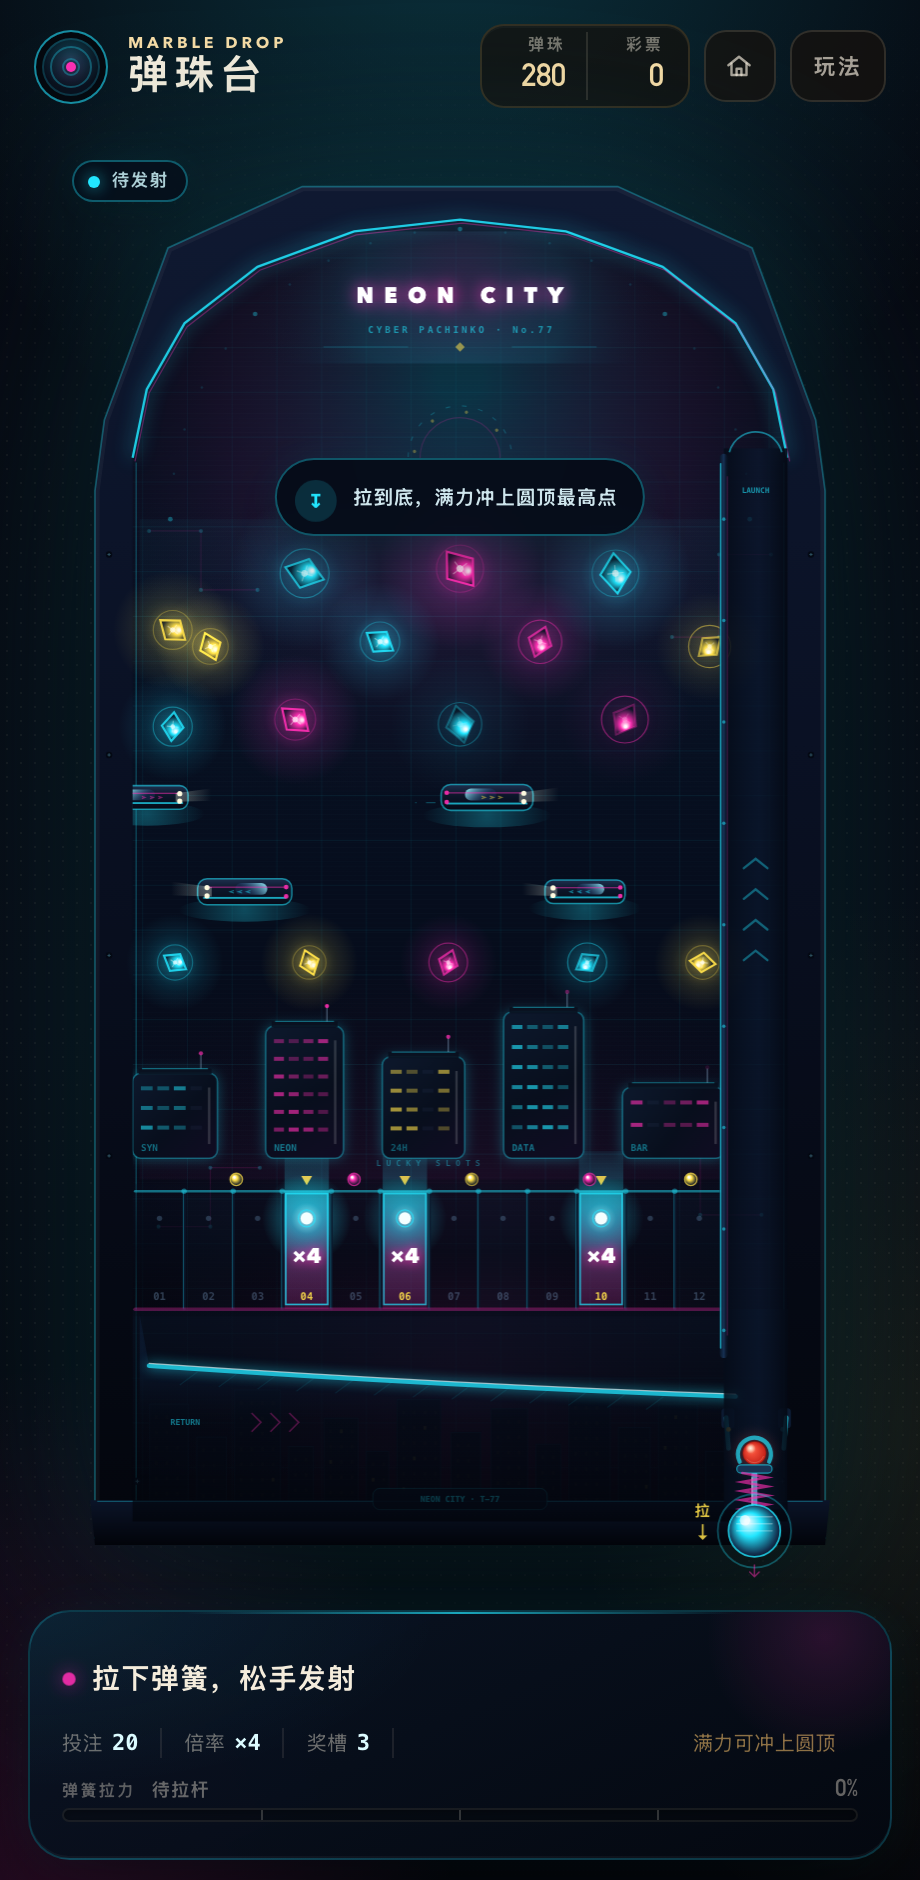
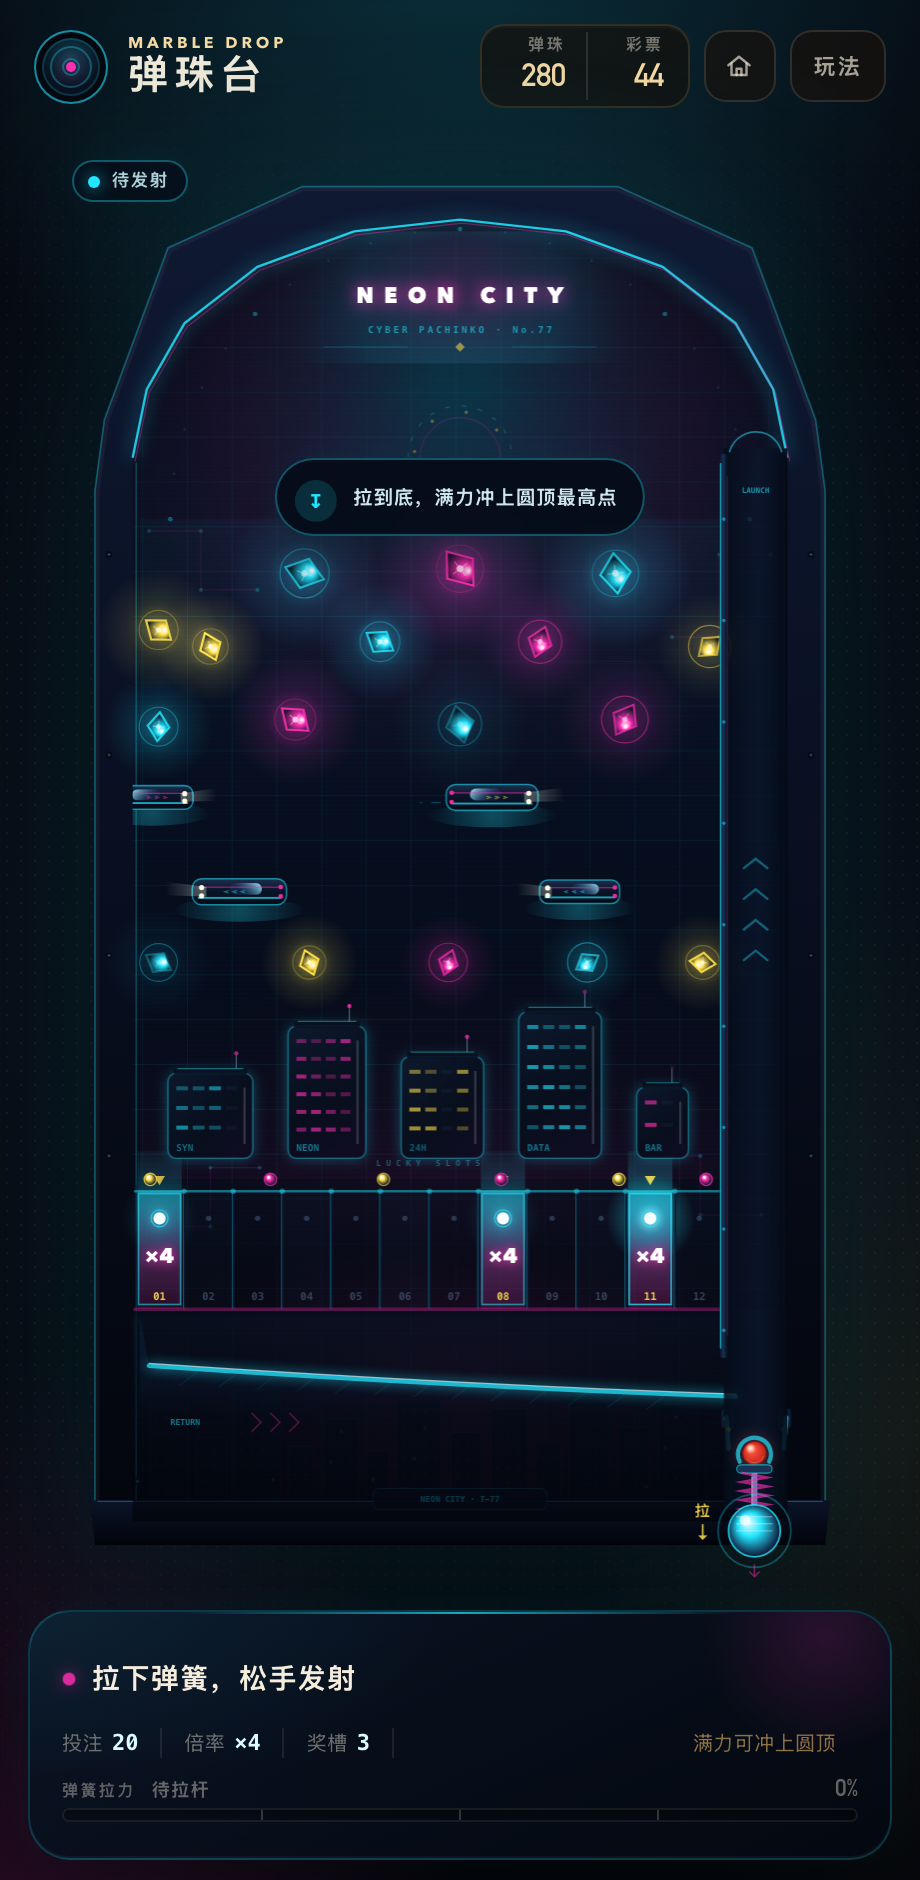
balance: sell tables for tickets and spread neon city landings

diff --git a/src/game/tables.js b/src/game/tables.js
@@ -74,26 +74,29 @@ const NEON_SPLITTERS = [
   { x: 220, y: 500, r: 12, hue: "magenta", phase: 1.2 },
   { x: 360, y: 504, r: 13, hue: "cyan", phase: 2.8 },
   { x: 500, y: 500, r: 12, hue: "magenta", phase: 4.7 },
-  // Edge splitters catch a marble that tries to hug the left rail.
-  { x: 116, y: 424, r: 11, hue: "yellow", phase: 1.1 },
-  { x: 116, y: 506, r: 10, hue: "cyan", phase: 3.6 },
+  // Edge splitters sit close enough to the rail to catch a marble that tries
+  // to hug it. A ball centre at x≈92 cannot squeeze past these pins.
+  { x: 104, y: 424, r: 11, hue: "yellow", phase: 1.1 },
+  { x: 104, y: 506, r: 10, hue: "cyan", phase: 3.6 },
 ].map((peg, index) => ({ ...peg, kind: "splitter", id: `n-${index}` }));
 
 /** A second rank of neon splitters just above the skyline. The layer-2 cars
     tend to sweep marbles toward the left rail, so these pins break that sweep
     before the marble reaches the rooftop layer. */
-const NEON_MID_PINS = [118, 232, 350, 468, 566].map((x, index) => ({
+const NEON_MID_PINS = [104, 232, 350, 468, 566].map((x, index) => ({
   x,
   y: 706,
-  r: 9,
+  r: index === 0 ? 10 : 9,
   kind: "splitter",
   hue: ["cyan", "yellow", "magenta", "cyan", "yellow"][index],
   phase: 0.8 + index * 1.7,
   id: `nm-${index}`,
 }));
 
-/** Small street-level neon dots just above the slot bank. */
-const NEON_STREET_PEGS = [170, 270, 370, 470, 556].map((x, index) => ({
+/** Street lamps sit at the intersection gaps. A marble that drops through a
+    gap clips a lamp and scatters into one of the neighbouring slots, instead
+    of always landing in the same pocket. */
+const NEON_STREET_PEGS = [97, 199, 295, 395, 495, 569].map((x, index) => ({
   x,
   y: 890,
   r: 5.2,
@@ -190,11 +193,11 @@ const NEON_CARS = [
 ];
 
 const NEON_BUILDINGS = [
-  { x: 118, y: 836, w: 72, h: 72, seed: 1, accent: "#22e6ff", sign: "SYN", roofBounce: 320 },
-  { x: 228, y: 816, w: 66, h: 112, seed: 2, accent: "#ff2fb3", sign: "NEON", roofBounce: 340 },
-  { x: 329, y: 829, w: 70, h: 86, seed: 3, accent: "#ffe04a", sign: "24H", roofBounce: 320 },
-  { x: 431, y: 810, w: 68, h: 124, seed: 4, accent: "#22e6ff", sign: "DATA", roofBounce: 360 },
-  { x: 541, y: 842, w: 86, h: 60, seed: 5, accent: "#ff2fb3", sign: "BAR", roofBounce: 330 },
+  { x: 148, y: 836, w: 72, h: 72, seed: 1, accent: "#22e6ff", sign: "SYN", roofBounce: 320 },
+  { x: 247, y: 816, w: 66, h: 112, seed: 2, accent: "#ff2fb3", sign: "NEON", roofBounce: 340 },
+  { x: 345, y: 829, w: 70, h: 86, seed: 3, accent: "#ffe04a", sign: "24H", roofBounce: 320 },
+  { x: 445, y: 810, w: 70, h: 124, seed: 4, accent: "#22e6ff", sign: "DATA", roofBounce: 360 },
+  { x: 532, y: 842, w: 44, h: 60, seed: 5, accent: "#ff2fb3", sign: "BAR", roofBounce: 330 },
 ].map((block) => ({
   ...block,
   type: "block",
@@ -287,7 +290,7 @@ const DEFINITIONS = [
     tagline: "温润纸面与黄铜钉阵，街机厅最熟悉的一台机器。",
     description: "对称 10/9 交错钉阵，落点完全由重力与碰撞决定。",
     price: 0,
-    currency: "coins",
+    currency: "tickets",
     art: "classic",
     features: ["对称钉阵", "黄铜回球坡道", "纯物理落点"],
     palette: {
@@ -310,8 +313,8 @@ const DEFINITIONS = [
     tagline: "雨夜高架、飞行汽车与跳动的霓虹分流钉。",
     description:
       "顶层是闪烁的霓虹分流钉，中层两列飞行汽车循环穿梭，底层是参差的摩天楼群。",
-    price: 80,
-    currency: "coins",
+    price: 16,
+    currency: "tickets",
     art: "cyberpunk",
     features: ["霓虹分流钉", "飞行汽车 ×4", "摩天楼群"],
     palette: {
@@ -335,8 +338,8 @@ const DEFINITIONS = [
     tagline: "主动与被动转子、弹射桩和一对相连的传送门。",
     description:
       "两台常转的霓虹转子切开落点，中央是被动转子。弹射桩提供额外回弹，传送门把左右两侧连成闭环。",
-    price: 120,
-    currency: "coins",
+    price: 24,
+    currency: "tickets",
     art: "cyberpunk",
     variant: "lab",
     features: ["主动 / 被动转子", "弹射桩", "传送门"],

diff --git a/index.html b/index.html
@@ -320,7 +320,7 @@
             <span class="exchange-icon table-icon" aria-hidden="true">▦</span>
             <div>
               <h2>弹珠台机台</h2>
-              <p>用游戏币购买新的机台。不同机台拥有独立的外观、机柜造型与专属障碍物，共享同一套投注和奖槽规则。</p>
+              <p>用彩票购买新的机台。游戏币只用于兑换弹珠；不同机台拥有独立的外观、机柜造型与专属障碍物，共享同一套投注和奖槽规则。</p>
             </div>
           </div>
 
@@ -430,7 +430,7 @@
         <li><b>释放母球</b><span>限位器自动打开，母球落入右下发射舱。</span></li>
         <li><b>线性调节拉力，松手发射</b><span>按住右下角弹簧把手向下拖动，底部力度条会实时显示弱力 / 中力 / 强力 / 满力。松手发射，满力可冲到圆顶最高点。</span></li>
         <li><b>落入奖槽即可中奖</b><span>返还「投入 × 倍率」颗弹珠。每满 30 颗返还弹珠，额外获得 1 张彩票。中奖后弹珠会吐进托盘，等待全部落完再显示结算；可在选项中关闭中奖动画。</span></li>
-        <li><b>机台与障碍物</b><span>在商店用游戏币购买并装备新机台。不同机台有独立外观与障碍物：霓虹分流钉、循环飞行的汽车、主动 / 被动旋转转子、碰撞弹射桩和成对传送门。障碍物会真实参与碰撞，但投注、倍率、奖槽和彩票规则不变。</span></li>
+        <li><b>机台与障碍物</b><span>在商店用彩票购买并装备新机台。不同机台有独立外观与障碍物：霓虹分流钉、循环飞行的汽车、主动 / 被动旋转转子、碰撞弹射桩和成对传送门。障碍物会真实参与碰撞，但投注、倍率、奖槽和彩票规则不变。</span></li>
         <li><b>街机经济</b><span>1 张彩票可在商店兑换 5 游戏币，1 游戏币可购买 5 颗弹珠。当弹珠不足 5 颗、且没有游戏币和彩票时，可免费领取 30 颗补助。</span></li>
       </ol>
       <div class="odds-card">

diff --git a/src/main.js b/src/main.js
@@ -240,8 +240,8 @@ function renderTableShop(state) {
   tableGrid.innerHTML = TABLE_LIST.map((table) => {
     const owned = state.tables.owned.includes(table.id);
     const isEquipped = state.tables.equipped === table.id;
-    const canAfford = state.coins >= table.price;
-    const priceLabel = table.price > 0 ? `${table.price} 游戏币` : "免费机台";
+    const canAfford = state.tickets >= table.price;
+    const priceLabel = table.price > 0 ? `${table.price} 彩票` : "免费机台";
 
     let action;
     if (isEquipped) {
@@ -249,7 +249,7 @@ function renderTableShop(state) {
     } else if (owned) {
       action = `<button class="skin-btn" type="button" data-table-equip="${table.id}">装备</button>`;
     } else {
-      action = `<button class="skin-btn is-buy" type="button" data-table-buy="${table.id}" ${canAfford ? "" : "disabled"} title="${canAfford ? "用游戏币购买并装备" : "游戏币不足"}">${priceLabel}</button>`;
+      action = `<button class="skin-btn is-buy" type="button" data-table-buy="${table.id}" ${canAfford ? "" : "disabled"} title="${canAfford ? "用彩票购买并装备" : "彩票不足"}">${priceLabel}</button>`;
     }
 
     const cardClass = [
@@ -308,8 +308,8 @@ function buyTable(id) {
   if (!account.ownsTable(id)) {
     const result = account.purchaseTable(id, table.price);
     if (!result.ok) {
-      const missing = Math.max(0, table.price - account.coins);
-      toast(result.reason === "coins" ? `还差 ${missing} 游戏币` : "暂时无法购买这台机台");
+      const missing = Math.max(0, table.price - account.tickets);
+      toast(result.reason === "tickets" ? `还差 ${missing} 张彩票` : "暂时无法购买这台机台");
       return;
     }
     audio.init();

diff --git a/src/account.js b/src/account.js
@@ -271,8 +271,8 @@ class Account {
   }
 
   /**
-   * Buy a table with arcade coins. New tables are equipped immediately so the
-   * shop can hand the player straight back to the new machine.
+   * Buy a table with tickets and equip it immediately. Tickets are the only
+   * cosmetic / machine unlock currency; coins are reserved for buying marbles.
    */
   purchaseTable(id, price = 0) {
     if (!isTableId(id)) return { ok: false, reason: "invalid" };
@@ -280,8 +280,8 @@ class Account {
       return { ok: true, alreadyOwned: true, equipped: this.equipTable(id) };
     }
     const cost = clampInt(price, 0, 9_999_999);
-    if (this.state.coins < cost) return { ok: false, reason: "coins" };
-    this.state.coins -= cost;
+    if (this.state.tickets < cost) return { ok: false, reason: "tickets" };
+    this.state.tickets -= cost;
     this.state.tables.owned.push(id);
     this.state.tables.equipped = id;
     this.#changed();

diff --git a/README.md b/README.md
@@ -13,7 +13,7 @@
 - **街机模式**：已开放。新账号从 **300 颗弹珠** 开始，投入 5–99 颗弹珠，靠实际物理落点决定输赢。
 - **闯关模式**：按钮保留但锁定，显示「未开放」。之前的积分、技能树和机关布阵原型代码仍在仓库内部，但街机入口不挂载；也可从 Git 历史回溯。
 - **商店**：已开放彩票 / 游戏币 / 弹珠兑换，母球皮肤与弹珠台机台的购买和装备。
-- **弹珠台机台**：3 台机台可购买 / 切换。「橡木经典」免费，「霓虹都市」「虫洞实验室」用游戏币解锁。机台共享投注、倍率、奖槽和彩票规则。
+- **弹珠台机台**：3 台机台可购买 / 切换。「橡木经典」免费，「霓虹都市」「虫洞实验室」用彩票解锁。机台共享投注、倍率、奖槽和彩票规则。
 - **障碍物引擎**：支持沿路径循环移动、主动常转 / 被动受击旋转、碰撞弹射、双向传送门和静态方块五类障碍物。
 - **母球皮肤**：6 款皮肤，用彩票解锁；同时改变母球外观、速度拖尾、碰撞粒子和发射 / 碰撞音效，不影响物理属性。
 - **选项**：音效音量、静音、触感反馈、中奖吐珠动画、玩法说明和重置存档。
@@ -76,19 +76,19 @@ npm run check
 | 游戏币 → 弹珠 | 1 游戏币 = 5 颗弹珠 |
 | 免费补助 | 弹珠不足 5 颗，且游戏币和彩票都为 0 时，可领取 30 颗 |
 | 母球皮肤 | 12–36 张彩票，购买后自动装备，只改变表现 |
-| 弹珠台机台 | 80 / 120 游戏币，购买后自动装备，只改变棋盘与障碍物 |
+| 弹珠台机台 | 16 / 24 张彩票，购买后自动装备，只改变棋盘与障碍物 |
 
-主界面、商店、游戏内低余额提示都可以进入补助流程。游戏币目前只通过彩票兑换获得，不直接用真实货币购买。
+主界面、商店、游戏内低余额提示都可以进入补助流程。游戏币只通过彩票兑换获得，并且只用于购买弹珠；机台与皮肤都用彩票解锁。
 
 ## 弹珠台机台
 
-机台是比母球皮肤更重度的解锁内容：除了机台外观、机柜造型和棋盘布局不同，每台机台还会挂载独立的障碍物配方。机台购买后立即装备，下一局生效；切换机台不会重置街机账号、彩票或皮肤。
+机台是比母球皮肤更重度的解锁内容：除了机台外观、机柜造型和棋盘布局不同，每台机台还会挂载独立的障碍物配方。机台用彩票购买，购买后立即装备，下一局生效；切换机台不会重置街机账号、彩票或皮肤。
 
 | 机台 | 价格 | 造型与障碍物 |
 | --- | --- | --- |
 | 橡木经典 · OAK CLASSIC | 免费 | 温润纸面、对称 10/9 钉阵、黄铜回球坡道 |
-| 霓虹都市 · NEON CITY | 80 游戏币 | 深色科技机柜；最上层 12 枚闪烁霓虹分流钉；中层两列飞行汽车各两辆，分别循环左→右和右→左；第三层 5 栋参差摩天楼与楼顶霓虹灯牌 |
-| 虫洞实验室 · WARP LAB | 120 游戏币 | 梯形科技顶盖；两台主动转子、一台被动三叶转子、两枚弹射桩和一对左右相连的传送门 |
+| 霓虹都市 · NEON CITY | 16 彩票 | 深色科技机柜；最上层 12 枚闪烁霓虹分流钉；中层两列飞行汽车各两辆，分别循环左→右和右→左；第三层 5 栋参差摩天楼与楼顶霓虹灯牌 |
+| 虫洞实验室 · WARP LAB | 24 彩票 | 梯形科技顶盖；两台主动转子、一台被动三叶转子、两枚弹射桩和一对左右相连的传送门 |
 
 ![霓虹都市弹珠台](./preview-table-neon.png)
 
@@ -97,6 +97,8 @@ npm run check
 ![虫洞实验室弹珠台](./preview-table-warp.png)
 
 机台只改变棋盘布局、障碍物和视觉表现，不改变投注范围、倍率表、奖槽数量、彩票规则和母球物理参数。购买和装备状态保存在本机账号里。
+
+霓虹都市的平衡经过落点模拟调整：靠左侧的边轨分流钉会截住贴轨下落的母球，摩天楼之间留出六条街道，楼间缺口下方再放置路灯分流钉，避免母球总是从同一个缺口落入 3 号槽。0.5–0.86 力度下模拟覆盖 10 个槽位，最高单槽命中率约 21%，没有卡球或超时。
 
 ## 障碍物引擎
 
@@ -116,7 +118,7 @@ npm run check
 
 - 彩票换游戏币
 - 游戏币购买 5 颗 / 25 颗弹珠
-- 弹珠台机台：3 台，用游戏币解锁，购买后立即装备
+- 弹珠台机台：3 台，用彩票解锁，购买后立即装备
 - 母球皮肤：6 款，用彩票解锁，可随时装备和试听
 
 ![商店](./preview-shop.png)
